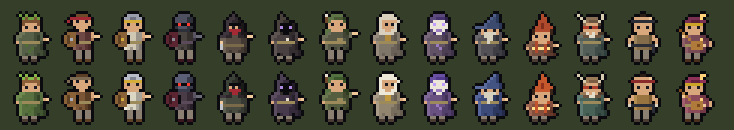
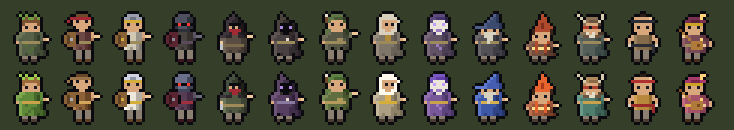
Zone 1 gear looks draft 2: brighter class colours for all 14 (review page; game unchanged)
Claude-Session: https://claude.ai/code/session_012jDnDFrKPC3gzU1oMHwswk

diff --git a/tools/gear_review/index.html b/tools/gear_review/index.html
@@ -28,26 +28,14 @@ b{color:var(--gold);font-weight:600}
 @media(max-width:600px){table{font-size:13px}.stack thead{display:none}.stack tr{display:grid;padding-block:10px}.stack td{display:flow-root;border:0;padding:3px 0;padding-inline-start:8em;text-align:start}.stack td::before{content:attr(data-l);float:inline-start;width:7.5em;margin-inline-start:-8em;white-space:normal;color:var(--dim)}.stack td:empty{display:none}}
 </style><script>new MutationObserver(()=>{for(const c of document.querySelectorAll('.stack td:not([data-l])')){let i=0,p=c;while(p=p.previousElementSibling)i+=p.colSpan;c.dataset.l=c.closest('table').rows[0].cells[i]?.textContent||''}}).observe(document,{childList:true,subtree:true})</script></head><body>
 <div class="band">
-<h1>Zone 1 gear looks, in the game (v0.142)</h1>
-<p>One look step per zone, starting small. Wearing a chest item dyes your clothes; a head item dyes your hat, hood or helm. Every item today is Zone 1, so they all show this same small step up from rags. No shape changes yet.</p>
-<div class="scroll"><img style="width:1000px;max-width:none" src="gear-z1-draft1.png" alt="All 14 classes: no gear, Zone 1 chest, Zone 1 head, both"></div>
+<h1>Zone 1 gear looks, draft 2</h1>
+<p>Your notes: v0.142 was "pretty much nothing", so this pass goes from washed-out rags to each class's own colour, brighter and easier to read, plus a gold or class-colour trim on the belt or sash. Wizard is your pick B, Warrior your pick C (bright red); the other 12 follow the same rule. Not in the game yet.</p>
+<div class="scroll"><img style="width:1070px;max-width:none" src="gear-z1-draft2.png" alt="All 14 classes: no gear, Zone 1 chest, Zone 1 head, both"></div>
 <p class="dim" style="margin-top:8px">Shown 5×. Each class: no gear, chest only, head only, both.</p>
-<h2>At game size</h2>
-<p>Top row rags, bottom row with a Zone 1 chest and head (3×).</p>
-<div class="scroll"><img style="width:734px;max-width:none" src="gear-z1-draft1-game.png" alt="All 14 classes at near game size, rags and Zone 1"></div>
-<h2>How to test on your phone</h2>
-<ol>
-<li>Open the game with <b>?dev</b> on the end of the link and pick any class.</li>
-<li>Tap <b>DEV → Loot → White</b> (or Green / Blue) a few times until you get a chest or head item.</li>
-<li>Tap your portrait to open the Character screen and put it on. Your character changes colour right away; take it off and the rags come back.</li>
-<li>Walk, attack and cast: the new colours stay on every move.</li>
-</ol>
-<h2>Questions for you</h2>
-<ol>
-<li><b>Too small, or about right?</b> A few are very quiet (Cleric, Shadow Knight, Rogue's hood). Push any of them a step further?</li>
-<li><b>Any colour you'd change</b> for a class?</li>
-<li>Still open from the ladder: <b>weapon pace</b> (weapons reach their biggest shape in Zone 1), <b>shields</b> changing with gear, and when <b>capes</b> arrive.</li>
-</ol>
+<h2>Your marks</h2>
+<p>For each class: keep, brighter, toned down, or a different colour. Anything not mentioned I'll keep as drawn, then build it into the game in one go.</p>
+<h2>Still open from the ladder</h2>
+<p>Weapon pace (weapons reach their biggest shape in Zone 1), shields changing with gear, and when capes arrive.</p>
 <p class="dim">Next zones add one small detail each, in the order of the look ladder (hat bobble, belt, trim and so on).</p>
 </div>
 </body></html>

diff --git a/js/render.js b/js/render.js
@@ -78,9 +78,9 @@ function mkSkin(id){
 // walk frames where one foot lifts a pixel (feet are columns 4-7 and 10-13), so legs move instead of the whole body bobbing.
 // ---------- Gear looks by zone (character lane, owner Nov 27; js/data/looks.js from tools/gear_looks.py) ----------
 // What you wear shows: a worn chest or head item swaps that part's colours for its zone's look. The swapped letters become
-// stand-in letters (1-5 head, 6-9 @ # chest) so head colours apply only above the shoulders and chest colours only below.
+// stand-in letters (1-5 head, 6-9 @ # $ % chest) so head colours apply only above the shoulders and chest colours only below.
 // lk = {chest: zone look, head: zone look}; 0 or missing = rags.
-const LOOK_HEAD='12345',LOOK_CHEST='6789@#';
+const LOOK_HEAD='12345',LOOK_CHEST='6789@#$%';
 function dress(rows,cls,lk){const L=GEAR_LOOKS[cls];if(!L||!lk)return rows;
   const hl=Object.keys((L.head||{})[lk.head]||{}),cl=Object.keys((L.chest||{})[lk.chest]||{});if(!hl.length&&!cl.length)return rows;
   let hy=rows.findIndex(r=>r.indexOf('H')>=0||r.indexOf('n')>=0);if(hy<0)hy=0;   // first row with clothes = the shoulders

diff --git a/tools/gear_looks.py b/tools/gear_looks.py
@@ -4,41 +4,42 @@
 # (the owner's "start really small"): a chest item dyes the clothes, a head item dyes the hat, hood or helm. No shape changes.
 # Head colours apply only above the shoulders (rows before the first clothes row), chest colours only from there down, so a
 # letter both parts share (the Cleric's white, the Magician's red, the Monk's dark cloth) changes in the right place only.
-# Run: python3 tools/gear_looks.py -> js/data/looks.js and art/drafts/gear-z1-draft1.png (+ -game.png)
+# Run: python3 tools/gear_looks.py -> js/data/looks.js and art/drafts/gear-z1-draft2.png (+ -game.png)
 import os,sys,json;sys.path.insert(0,os.path.dirname(os.path.abspath(__file__)))
 
 # LOOKS[class][slot][zone look] = {letter: colour}. Rags (no item) = look 0 = the class's own colours.
-LOOKS={
- 'druid':   {'chest':{1:{'H':'#6f8a4e','n':'#587040','N':'#435632','d':'#334226'}},
-             'head': {1:{'L':'#86b84a','G':'#5e8a36','h':'#8a5e36'}}},
- 'warrior': {'chest':{1:{'H':'#94704a','n':'#7a5636','N':'#5a3e26','d':'#40291a'}},
-             'head': {1:{'R':'#7c6a52','h':'#5a3e26'}}},
- 'paladin': {'chest':{1:{'H':'#f0ece0','n':'#dcd6c4','N':'#a8a49a','d':'#86827a'}},
-             'head': {1:{'J':'#b8bcc8','j':'#7e8292'}}},
- 'shadowknight':{'chest':{1:{'H':'#5e4e58','n':'#4a3c46','N':'#362a34','d':'#281e28'}},
-             'head': {1:{'J':'#5c6076','j':'#363a4a'}}},
- 'rogue':   {'chest':{1:{'H':'#5c6052','n':'#474b40','N':'#363a32','d':'#2a2c26'}},
-             'head': {1:{'A':'#3c4238','a':'#2a2e27','Q':'#1a1c18'}}},
- 'necro':   {'chest':{1:{'H':'#5c4c60','n':'#473a4c','N':'#352a3a','d':'#26202a'}},
-             'head': {1:{'A':'#4c4054','a':'#352b3c','Q':'#221a27'}}},
- 'ranger':  {'chest':{1:{'H':'#6c7650','n':'#555e3e','N':'#41482e','d':'#323822'}},
-             'head': {1:{'A':'#527040','a':'#3c562c','Q':'#2a3c1c'}}},
- 'cleric':  {'chest':{1:{'H':'#a89c88','n':'#91856f','N':'#786e5e','d':'#665d50','W':'#eee8d8','Y':'#c49a3e'}},
-             'head': {1:{'W':'#eee8d8'}}},
- 'enchanter':{'chest':{1:{'H':'#806896','n':'#695282','N':'#53406a','d':'#433058'}},
-             'head': {1:{'A':'#6a50a2','a':'#523a8c','Q':'#38265e'}}},
- 'wizard':  {'chest':{1:{'H':'#56669a','n':'#3c4a7a','N':'#2c3860','d':'#222a48'}},
-             'head': {1:{'A':'#5a6c9e','a':'#445482','Q':'#2e3a64'}}},
- 'magician':{'chest':{1:{'H':'#9c6650','n':'#844f3c','N':'#6a3b2c','d':'#572d20','R':'#c4542e'}},
-             'head': {1:{'R':'#c6582e','r':'#8e321c'}}},
- 'shaman':  {'chest':{1:{'H':'#5e7a72','n':'#486258','N':'#384e46','d':'#2a3c36'}},
-             'head': {1:{'A':'#9c7c58','a':'#7a5c42','Q':'#544030'}}},
- 'monk':    {'chest':{1:{'H':'#b48c50','n':'#9a7440','N':'#7c5c30'}},
-             'head': {1:{'T':'#8a2a2a'}}},
- 'bard':    {'chest':{1:{'H':'#a2606e','n':'#8a4a5a','N':'#723846'}},
-             'head': {1:{'A':'#8e3258','a':'#64203e'}}},
+LOOKS={   # draft 2 (owner, Nov 27: v0.142 was "pretty much nothing"): each class's own colour, brighter and easier to read,
+          # plus a gold or class-colour trim on the belt or sash. Wizard (B) and Warrior (C, bright red) picked by the owner.
+ 'druid':   {'chest':{1:{'H':'#9ad060','n':'#76b044','N':'#568a30','d':'#3e6622','y':'#f4c868'}},
+             'head': {1:{'L':'#c0f060','G':'#88c844','h':'#b07a40'}}},
+ 'warrior': {'chest':{1:{'H':'#d05a58','n':'#b03a3c','N':'#86262c','d':'#5e1820','y':'#f4c868'}},
+             'head': {1:{'R':'#e04848','h':'#6e4a2a'}}},
+ 'paladin': {'chest':{1:{'H':'#ffffff','n':'#f4f0e4','N':'#c4c0b4','d':'#9c988e','y':'#ffd24a'}},
+             'head': {1:{'J':'#e4e8f4','j':'#a0a8c0'}}},
+ 'shadowknight':{'chest':{1:{'H':'#8a4a6a','n':'#6e3456','N':'#52243e','d':'#3a182c','y':'#d03a4a'}},
+             'head': {1:{'J':'#7a82a8','j':'#4a5070'}}},
+ 'rogue':   {'chest':{1:{'H':'#7c9a5c','n':'#5e7a44','N':'#465c32','d':'#344424','y':'#c8aa60'}},
+             'head': {1:{'A':'#566e48','a':'#3e5234','Q':'#283622'}}},
+ 'necro':   {'chest':{1:{'H':'#8a62a0','n':'#6c4886','N':'#52346a','d':'#3a2450','y':'#b08ae0'}},
+             'head': {1:{'A':'#6e5288','a':'#503a68','Q':'#34264a'}}},
+ 'ranger':  {'chest':{1:{'H':'#8aa45c','n':'#6c8644','N':'#526832','d':'#3c4c24','y':'#d4b060'}},
+             'head': {1:{'A':'#6c9a48','a':'#527a34','Q':'#3a5624'}}},
+ 'cleric':  {'chest':{1:{'H':'#e0d4b8','n':'#cabd9e','N':'#aa9e80','d':'#8c826a','W':'#ffffff','Y':'#ffcc4a','y':'#ffcc4a'}},
+             'head': {1:{'W':'#ffffff'}}},
+ 'enchanter':{'chest':{1:{'H':'#a880d0','n':'#8c64b8','N':'#6e4c98','d':'#563a7c','y':'#e0c060'}},
+             'head': {1:{'A':'#9468e0','a':'#764cc4','Q':'#54348e'}}},
+ 'wizard':  {'chest':{1:{'H':'#6a8ae0','n':'#4866c4','N':'#344e9e','d':'#263a7a','y':'#f0c860'}},
+             'head': {1:{'A':'#6e8ae6','a':'#506ac8','Q':'#38509e'}}},
+ 'magician':{'chest':{1:{'H':'#d8805a','n':'#bc6040','N':'#964830','d':'#743422','R':'#ff7038'}},
+             'head': {1:{'R':'#ff7a38','r':'#c44420'}}},
+ 'shaman':  {'chest':{1:{'H':'#78b8a4','n':'#5a9a86','N':'#447c6a','d':'#325e50','y':'#e0b850'}},
+             'head': {1:{'A':'#c89a64','a':'#a0784c','Q':'#765636'}}},
+ 'monk':    {'chest':{1:{'H':'#f0b858','n':'#d89a40','N':'#b07a2e','T':'#b02a2a'}},
+             'head': {1:{'T':'#d03434'}}},
+ 'bard':    {'chest':{1:{'H':'#e07890','n':'#c45a74','N':'#a0445c','y':'#ffcc50'}},
+             'head': {1:{'A':'#c84080','a':'#962c5c'}}},
 }
-HEAD_KEYS='12345';CHEST_KEYS='6789@#'   # stand-in letters the game swaps in, so head and chest colours never mix
+HEAD_KEYS='12345';CHEST_KEYS='6789@#$%'   # stand-in letters the game swaps in, so head and chest colours never mix
 
 def head_rows(rows):
     """Rows above the shoulders: everything before the first row with clothes (H or n)."""
@@ -98,11 +99,11 @@ if __name__=='__main__':
             for j,(ch,hd) in enumerate(((0,0),(1,0),(0,1),(1,1))):
                 im=body(cls,ch,hd);im=im.resize((im.width*S,im.height*S),Image.NEAREST)
                 sh.alpha_composite(im,(x0+LW+j*cw,y+rh-im.height))
-    sh.save('art/drafts/gear-z1-draft1.png')
+    sh.save('art/drafts/gear-z1-draft2.png')
     g=Image.new('RGBA',(14*17*3+20,2*20*3+10),BG)
     for i,cls in enumerate(ids):
         for r,(ch,hd) in enumerate(((0,0),(1,1))):
             im=body(cls,ch,hd);im=im.resize((im.width*3,im.height*3),Image.NEAREST)
             g.alpha_composite(im,(10+i*17*3,5+r*60+60-im.height))
-    g.save('art/drafts/gear-z1-draft1-game.png')
+    g.save('art/drafts/gear-z1-draft2-game.png')
     print('wrote js/data/looks.js and the review sheet')

diff --git a/docs/board.md b/docs/board.md
@@ -140,7 +140,7 @@ Value: H/M/L. Effort: S/M/L. Phase: when it fits.
 | **Multiplayer step 3: playing together everywhere** (owner, Nov 27): change areas together (or follow), group-wide buffs ("you and everyone nearby"), see each other's pets, deaths and respawns, Dungeon 1 as a group (its own copy for the two of you; group tuning card below). Host leaving or locking the phone: the guest waits and reconnects | H | L (2–3 sessions) | after step 2 |
 | **Multiplayer on the same Wi-Fi: a relay (TURN) server** (owner, Nov 27, not urgent): first real test (v0.138): two phones on the same home Wi-Fi stop at "no route found"; with one phone on mobile data it connects and is seamless. Likely the router keeps devices on one network from linking directly. Fix: a relay server the phones can fall back on (free tiers exist, e.g. Metered or Cloudflare; owner makes the account, Claude gives the steps). Mobile data is fine for now | M | S | later (owner: not a big deal) |
 | **Multiplayer step 4: a real server** (owner, Nov 27, later): Nakama (already the plan) for more than 2 players, strangers, and the Ghost mobs card; accounts and saves on the server | H | L | phase 3 proper |
-| **Gear looks across the whole game: armour showing, plus a scope check on weapons** (owner, Nov 27; character lane). Owner: armour should show on the character too, but **think the whole game through first**: by the end gear has to look extravagant, so **Zone 1 starts really small** (robes barely change; no crazy colours), and weapons need the same scope check (size, how different, how cool). Open to the character **growing a little bigger with gear** rather than staying locked at 15 × 18. Wants named items to have a cool but calm identity (e.g. the Skeleton King's sword all black and white). **Claude's proposal (owner to decide):** (1) a **look ladder for the whole game**, Zone 1 → end of launch → expansions: Zone 1 = colour and trim only (rags → plain cloth, leather, chain, plate in muted colours, no shape changes); silhouette changes (hoods, mantles, pauldrons) from Zone 2–3; capes and big pieces late; glow only at the very end. (2) **The body stays 15 × 18; gear grows the outline** (a taller hat, shoulders, a cape, a longer weapon add pixels around the body), so late characters read bigger without redrawing every body frame. (3) **Showing slots:** chest and weapon first, then head, then back; gloves, boots and legs don't show. (4) **Weapons:** keep Zone 1 small and plain, tone the current looks 3–4 down (no bright gems in Zone 1; the Skeleton King in bone white and black iron, Malrec in soot iron with a dull ember), save colour and glow for later zones. (5) **First step: a review page** with one robe class and one plate class (plus their weapons) from rags to the end in about 6 steps, so the whole scope is judged before Zone 1's small steps are built. **Owner's answers (Nov 27):** yes, the body stays 15 × 18 and gear grows the outline; in Zone 1 armour shows on the **chest and head**; **weapon colours stay as they are for now** (tone back later only if they look like too much too early). **Look ladder draft 1 (Nov 27)** (`tools/look_ladder_draft.py` → `art/drafts/look-ladder-draft1.png`, review page "Gear look ladder" https://claude.ai/artifact/5L3oGwgHPWLLFJMx53sCFn): Wizard and Warrior in 6 steps (rags, Zone 1 early, Zone 1 end, Zone 2, end of launch, expansions). Zone 1 = colour and trim only (Wizard: blue dye, then cream trim and a hat band; Warrior: leather cap and jerkin, then iron cap and mail); Zone 2 first shape changes (mantle and taller hat; open helm, pauldrons, breastplate); end of launch capes, gold trim, crest; expansions winged helm / tall glowing hat, glow only there. Weapons keep their look-4 size; looks 6 and 7 are new colours on that shape. **Owner to answer:** overall range; weapons outpace armour (look 4 by Malrec: keep, or cap Zone 1 at look 3); Warrior plate only from Zone 2; shields changing with gear; capes at end of launch. Then: Zone 1's small steps (chest and head) for all 14 classes on one review page, then build. **Owner on draft 1 (Nov 27):** likes it; expand it with **more small details in between before it gets grand** (e.g. a bobble on the Wizard's hat), saving the grand looks for much later so the ladder can go further. **Draft 2 (Nov 27, same page, `python3 tools/look_ladder_draft.py 2`):** 10 steps: today, 7 small ones (Wizard: blue dye, hat bobble and leather belt, trim and hat band, small collar, mantle and taller hat, feather and star stitching, hooded mantle with gold trim; Warrior: leather, studs and bracer and banded shield, iron cap and mail, red tabard, open helm and pauldrons, small plume, closed helm with crest), then cape and the endgame look. One new detail per step. **Owner on draft 2 (Nov 27):** loves the designs but not that fast: **one step per zone** (Decisions). **Built v0.142: Zone 1 gear shows** (chest and head dye the clothes and hat for all 14 classes; `tools/gear_looks.py` → `js/data/looks.js`; review page "Zone 1 gear looks" https://claude.ai/artifact/VTqvQo1voNuB1xvnNHqow7). **Next:** owner's notes on the Zone 1 colours; Zone 2's look waits for Zone 2's items. Still open from the ladder page: weapon pace, shields, capes. Ties to the **Gear shows on the character, by tier** card and the Items lane (look tiers on items) | H | M (ladder draft) / L (all) | now (Zone 1 gear built v0.142, owner to look) |
+| **Gear looks across the whole game: armour showing, plus a scope check on weapons** (owner, Nov 27; character lane). Owner: armour should show on the character too, but **think the whole game through first**: by the end gear has to look extravagant, so **Zone 1 starts really small** (robes barely change; no crazy colours), and weapons need the same scope check (size, how different, how cool). Open to the character **growing a little bigger with gear** rather than staying locked at 15 × 18. Wants named items to have a cool but calm identity (e.g. the Skeleton King's sword all black and white). **Claude's proposal (owner to decide):** (1) a **look ladder for the whole game**, Zone 1 → end of launch → expansions: Zone 1 = colour and trim only (rags → plain cloth, leather, chain, plate in muted colours, no shape changes); silhouette changes (hoods, mantles, pauldrons) from Zone 2–3; capes and big pieces late; glow only at the very end. (2) **The body stays 15 × 18; gear grows the outline** (a taller hat, shoulders, a cape, a longer weapon add pixels around the body), so late characters read bigger without redrawing every body frame. (3) **Showing slots:** chest and weapon first, then head, then back; gloves, boots and legs don't show. (4) **Weapons:** keep Zone 1 small and plain, tone the current looks 3–4 down (no bright gems in Zone 1; the Skeleton King in bone white and black iron, Malrec in soot iron with a dull ember), save colour and glow for later zones. (5) **First step: a review page** with one robe class and one plate class (plus their weapons) from rags to the end in about 6 steps, so the whole scope is judged before Zone 1's small steps are built. **Owner's answers (Nov 27):** yes, the body stays 15 × 18 and gear grows the outline; in Zone 1 armour shows on the **chest and head**; **weapon colours stay as they are for now** (tone back later only if they look like too much too early). **Look ladder draft 1 (Nov 27)** (`tools/look_ladder_draft.py` → `art/drafts/look-ladder-draft1.png`, review page "Gear look ladder" https://claude.ai/artifact/5L3oGwgHPWLLFJMx53sCFn): Wizard and Warrior in 6 steps (rags, Zone 1 early, Zone 1 end, Zone 2, end of launch, expansions). Zone 1 = colour and trim only (Wizard: blue dye, then cream trim and a hat band; Warrior: leather cap and jerkin, then iron cap and mail); Zone 2 first shape changes (mantle and taller hat; open helm, pauldrons, breastplate); end of launch capes, gold trim, crest; expansions winged helm / tall glowing hat, glow only there. Weapons keep their look-4 size; looks 6 and 7 are new colours on that shape. **Owner to answer:** overall range; weapons outpace armour (look 4 by Malrec: keep, or cap Zone 1 at look 3); Warrior plate only from Zone 2; shields changing with gear; capes at end of launch. Then: Zone 1's small steps (chest and head) for all 14 classes on one review page, then build. **Owner on draft 1 (Nov 27):** likes it; expand it with **more small details in between before it gets grand** (e.g. a bobble on the Wizard's hat), saving the grand looks for much later so the ladder can go further. **Draft 2 (Nov 27, same page, `python3 tools/look_ladder_draft.py 2`):** 10 steps: today, 7 small ones (Wizard: blue dye, hat bobble and leather belt, trim and hat band, small collar, mantle and taller hat, feather and star stitching, hooded mantle with gold trim; Warrior: leather, studs and bracer and banded shield, iron cap and mail, red tabard, open helm and pauldrons, small plume, closed helm with crest), then cape and the endgame look. One new detail per step. **Owner on draft 2 (Nov 27):** loves the designs but not that fast: **one step per zone** (Decisions). **Built v0.142: Zone 1 gear shows** (chest and head dye the clothes and hat for all 14 classes; `tools/gear_looks.py` → `js/data/looks.js`; review page "Zone 1 gear looks" https://claude.ai/artifact/VTqvQo1voNuB1xvnNHqow7). **Owner on v0.142 (Nov 27):** too small ("pretty much nothing"). One character first: Wizard B (brighter blue, gold sash), Warrior C (bright red, his class colour, not leather: "more of a visual upgrade, easier to read"); rule: each class's own colour, brighter, plus a gold or class-colour trim on the belt or sash. **Draft 2 for all 14** on the same page (`tools/gear_looks.py` → `art/drafts/gear-z1-draft2.png`; not in the game yet). **Next:** owner's marks, then build draft 2 into the game (rerun `tools/gear_looks.py`, it writes `js/data/looks.js`). Zone 2's look waits for Zone 2's items. Still open from the ladder page: weapon pace, shields, capes. Ties to the **Gear shows on the character, by tier** card and the Items lane (look tiers on items) | H | M (ladder draft) / L (all) | now (Zone 1 gear built v0.142, owner to look) |
 | **Faster climb, more levels, zones built from a kit** (owner, Nov 27, thinking out loud in the character chat; talk through before Zone 2, nothing decided). Owner: if we find a system to make zones faster and set up many of them, leveling could be quicker and the game a bit faster paced, maybe **level 100 but faster**; there's a happy medium to find. Keep the small details. **Claude's notes:** (1) a level number is just a label; what players feel is **hours played** and **how often something new arrives** (a ding, a look step, a fork). Today's plan: 50 cap, about 60–80 h to 30, something new every ~3 sessions. 100 fast levels with the same hours means more dings, each smaller; every level still needs to give something (a look step, a rank, a fork) or it feels empty. (2) **A zone kit** fits the owner's heart rule if it speeds up the *skeleton* of a zone (layout template, mob family recipes, the `area-rules.md` checklist, look sheet, story beats) while every zone still gets its own love pass. Mass-made zones with no love pass would cut against "small details set games apart". (3) Touches: the skill tree pacing (forks every 2 then 3 levels to 50), the XP knobs and the climb timing (Balance lane), the look ladder (more zones = more small look steps, which draft 2 already leans into), the mount timing, and the Zone 2 size. **To decide with the owner:** cap (50 or 100), target hours to cap, zones at launch, how a zone kit works | H | L | design talk before Zone 2 |
 | **Channel glow on cast-time spells** (owner, Nov 27; character lane). While a spell with a cast time charges (Mend, Greater Heal, Raise Bones and so on), the caster already holds the staff up; on top of that, the light builds: the staff tip's glow in the class colour gets brighter and bigger and the light around the caster grows a little as the bar fills, so a long cast reads as channelling more energy than an instant spell. Instant spells keep the quick lift. Small to start, can grow later (owner's flavor rule). Looks only, no timing changes. **Shares files with the Spells lane** (effects in `js/anim.js`, drawing in `render.js`): one chat at a time. **Built v0.130** (owner said build it, Nov 27); owner to look on the phone | M | S | now (built v0.130, owner to play) |
 | **Player character pass: proportions and melee attack animations** (owner, Nov 27; character lane, "Connect to GitHub. Continue on character animations"). Owner: some classes don't read (the Warrior's sword arm and off arm don't line up); keep the Magician short on purpose; melee stabs and auto-attack swings. **Order:** (1) redraw each class at 15 × 18 with attack and cast poses in mind, Warrior first (**draft 1 Nov 27**, `tools/warrior_draft.py` → `art/drafts/warrior-draft1.png` / `.gif`: round plank shield held in front, bare sword arm with a fist on the hilt, longer legs, plus stab (draw back, lunge) and chop (raise, swing) frames); **owner OK'd the Warrior direction (Nov 27)**; **draft 2 Nov 27, all 14** (`tools/player_pass_draft.py` → `art/drafts/players-pass-draft2.png` / `.gif`): every class gets a fist on its weapon, shield classes share the Warrior's frames (Paladin brown shield with a gold boss on the pale tabard, Shadow Knight crimson shield), robe casters a real right sleeve and a cast pose (staff lifted, glow in the off hand), Rogue stab, Ranger draw, Monk punch, Bard strum; Magician kept short; **owner OK'd all 14 (Nov 27)** after one fix: the Monk's punching arm thinned to one pixel with a 2 × 2 fist. **Flavor (owner decided, Nov 27):** main attacks stay plain; abilities get a little flair to start (thin arc for area swings, a thrust streak and sparks for single hits); attacks and spell looks start small and can grow bigger and more dramatic as the game goes on. (2) ~~melee attack frames in the game~~ **built v0.112** (all 14 bodies from draft 2 plus chop / thrust / stab / draw / punch / strum / cast poses; looks only, same timing); **owner to try it on the phone.** **v0.116 (owner notes on v0.112):** knights' main attack is a forward slash (option A), legs keep walking during poses on the move, shadows steady and under the feet; **owner OK'd (Nov 27).** **Weapon layer built v0.121, owner OK'd (Nov 27: "all those character changes look really good").** **Staff bash not needed (checked Nov 27):** no staff class (Wizard, Necro, Druid, Enchanter, Magician) has a move that hits with the weapon; the only melee casters are the Cleric and Paladin (mace) and the Shaman (spear), which already have poses. Spells with a cast time already hold the staff up for the whole cast. **Next pickup:** ~~the channel glow card~~ built v0.130 (calmer v0.133); next the **Gear looks across the whole game** card (owner to answer the proposal, then a ladder review page). **Shares work with two lanes:** big spells belong to the **Spells** lane; the **Items** lane's weapons-first plan cuts the weapon out of the body into its own layer, which the attack frames need too, so build the body redraw and the weapon layer together (one chat at a time on `sprites.js` and the player drawing in `render.js`) | H | M–L | now (built v0.112, owner to play) |

diff --git a/docs/status.md b/docs/status.md
@@ -11,7 +11,7 @@
 | **Multiplayer** ("… Continue on multiplayer"): two players, phone to phone | v0.138 joining shows its steps and a reason when stuck (first try stuck on same Wi-Fi); v0.136 step 1: see each other (Menu → Group, Host / Join, chat); group scaling numbers | Works on mobile data (same Wi-Fi fails: relay card, later). **Next: step 2, shared mobs + heal your partner** (owner said go; not while Balance is building) |
 | **Items** ("… Continue on items"): drops, boss loot, enchanting, gold | v0.131 one pink per boss (Skeleton King: weapon; Greyfang: ring; Ironshell: bracers), Malrec two pinks: his chest gives one at random plus a blue, no repeats; v0.128 necklace slot; v0.124 pink tricks | Owner plays with the new gear and runs balance checks; teleport orbs on the back burner (owner: wait for a bigger world and the mounts); later: dungeon tiers with stronger pinks |
 | **Map** ("… Continue on map"): maps, tiles, area art | v0.143 Town 1 buildings drawn (DEV → Teleport → Town 1 (draft) only), Dungeon 1 censers and pool fixed; v0.140 Dungeon 1 stairs out and love pass | **Town 1 build**: townsfolk at their stations, services move from campfires to them, open the crossroads gate, start in town |
-| **Character** ("… Continue on character animations"): player bodies and attack poses | v0.142 Zone 1 gear shows (chest and head dye your clothes and hat); v0.135 staff glow sized by mana (instant spells too); v0.133 channel glow calmer; v0.130 channel glow on cast-time spells; v0.121 weapons in your hand (owner OK'd) | **Gear looks across the whole game** (armour showing + weapon scope): owner decided: body stays 15 × 18 and gear grows the outline, chest and head show in Zone 1, weapon colours stay for now. Owner decided one look step per zone. Zone 1 gear is in the game (v0.142): owner to look and give colour notes (review page "Zone 1 gear looks"); Zone 2's look comes with Zone 2's items. Then the card **Hits that grow with damage** (one scaling system for swing impacts) |
+| **Character** ("… Continue on character animations"): player bodies and attack poses | v0.142 Zone 1 gear shows (chest and head dye your clothes and hat); v0.135 staff glow sized by mana (instant spells too); v0.133 channel glow calmer; v0.130 channel glow on cast-time spells; v0.121 weapons in your hand (owner OK'd) | **Gear looks across the whole game** (armour showing + weapon scope): owner decided: body stays 15 × 18 and gear grows the outline, chest and head show in Zone 1, weapon colours stay for now. Owner decided one look step per zone. Zone 1 gear v0.142 was too small; draft 2 (brighter class colours, all 14) on review page "Zone 1 gear looks": owner's marks, then build; Zone 2's look comes with Zone 2's items. Then the card **Hits that grow with damage** (one scaling system for swing impacts) |
 | **Spells** ("… Continue on spells"): player spell looks | — | Big spells as a setting (My spells: Big / Classic), then spells that grow with rank |
 | **Balance** ("… Continue on balance"): class and mob numbers, sim | — | Tune Malrec's finale for all 14; put gear in the sim; time the climb to Malrec |
 | **Skill tree** ("… Continue on skill tree"): design only for now | — | Owner approves the every-class-to-8 draft; build waits until Balance is idle |
